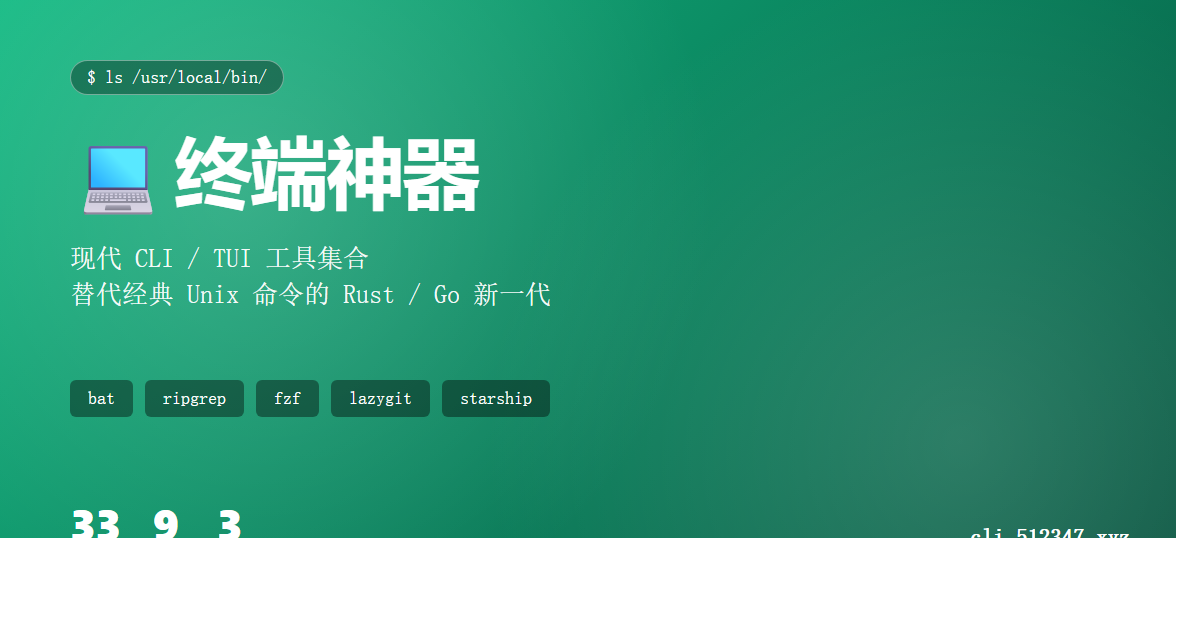
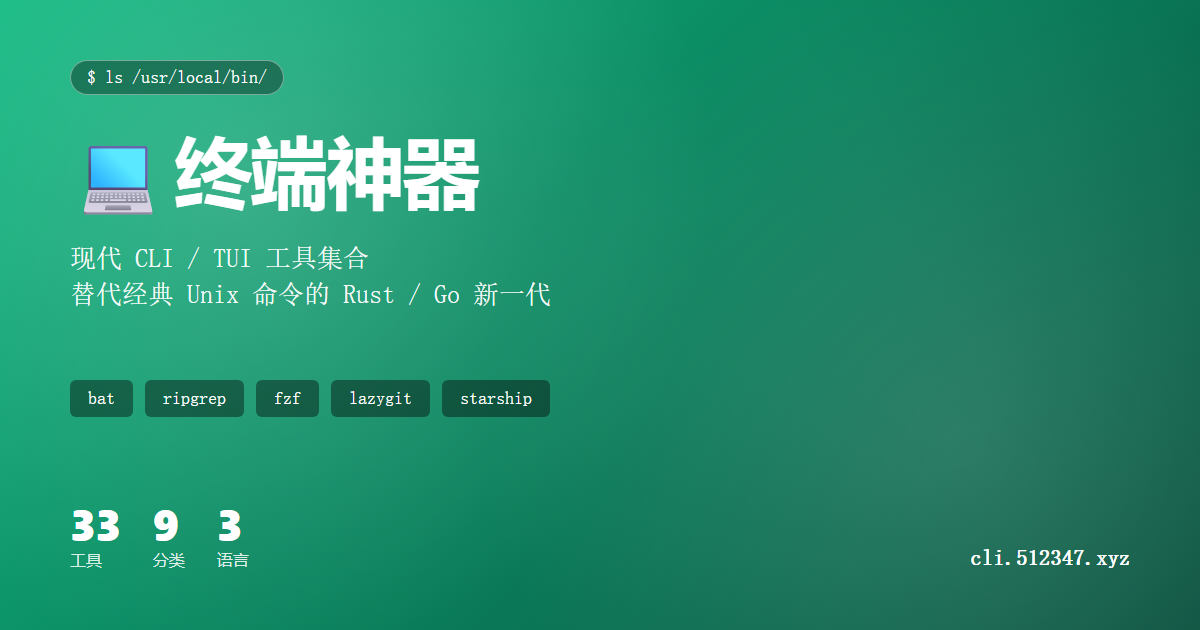
移除站点上的 GitHub 链接与用户名痕迹（隐私清理）
- 删 header GitHub 链接 + meta author
- footer / modal 去除指向仓库的链接
- 重新生成 og-image.png（去掉图上 github.com/HowCanLove 字样）

Changed region(s): [[0.0, 0.0, 1.0, 1.0]]

diff --git a/app.js b/app.js
@@ -500,7 +500,7 @@ function loadCategory() {    try {      const saved = localStorage.getItem(CATEG
 
     const footer = document.getElementById('footerText');
     if (footer) {
-      const linkHTML = `<a href="https://github.com/HowCanLove/useful-software/edit/main/data.js" target="_blank" rel="noopener">${t('footer.linkText')}</a>`;
+      const linkHTML = t('footer.linkText');
       footer.innerHTML = t('footer.text', { link: linkHTML, n: CATALOG.length });
     }
 
@@ -569,12 +569,11 @@ function loadCategory() {    try {      const saved = localStorage.getItem(CATEG
     } else {
       $modalMedia.innerHTML = '';
       $modalMedia.hidden = true;
-      const editUrl = 'https://github.com/HowCanLove/useful-software/edit/main/data.js';
       const noMediaText = state.lang === 'zh'
-        ? `🖼️ 暂无截图或视频。可以 <a href="${editUrl}" target="_blank" rel="noopener">编辑 data.js</a> 给这条加 <code>media</code> 字段。`
+        ? `🖼️ 暂无截图或视频。可以 编辑 data.js 给这条加 <code>media</code> 字段。`
         : state.lang === 'ja'
-          ? `🖼️ スクリーンショット・動画は未登録。<a href="${editUrl}" target="_blank" rel="noopener">data.js</a> を編集して <code>media</code> フィールドを追加できます。`
-          : `🖼️ No screenshots or videos yet. <a href="${editUrl}" target="_blank" rel="noopener">Edit data.js</a> to add a <code>media</code> field for this entry.`;
+          ? `🖼️ スクリーンショット・動画は未登録。data.js を編集して <code>media</code> フィールドを追加できます。`
+          : `🖼️ No screenshots or videos yet. Edit data.js to add a <code>media</code> field for this entry.`;
       $modalMediaEmpty.innerHTML = noMediaText;
       $modalMediaEmpty.hidden = false;
     }

diff --git a/index.html b/index.html
@@ -6,7 +6,6 @@
 
   <meta name="description" content="精选 Rust / Go 实现的现代终端工具集合：bat / ripgrep / fd / fzf / lazygit / k9s / starship / zellij 等，按 CLI / TUI / Shell 美化分类。装上之后告别经典 Unix 命令。">
   <meta name="keywords" content="CLI, TUI, terminal tools, ripgrep, bat, fzf, lazygit, k9s, starship, 终端工具, Rust CLI, modern terminal, ターミナル">
-  <meta name="author" content="HowCanLove">
   <meta name="theme-color" content="#10b981">
   <link rel="canonical" href="https://cli.512347.xyz/">
   <title>终端神器 · 现代 CLI / TUI 工具集 · 替代经典 Unix 命令</title>
@@ -52,10 +51,6 @@
     <div class="header-inner">
       <h1 class="site-title" data-i18n="site.title">💻 终端神器</h1>
       <p class="site-tagline" data-i18n="site.tagline">现代 CLI / TUI 工具集 · 替代经典 Unix 命令</p>
-      <a class="header-link" href="https://github.com/HowCanLove/useful-cli" target="_blank" rel="noopener">
-        <svg height="20" viewBox="0 0 16 16" width="20" fill="currentColor"><path d="M8 0C3.58 0 0 3.58 0 8c0 3.54 2.29 6.53 5.47 7.59.4.07.55-.17.55-.38 0-.19-.01-.82-.01-1.49-2.01.37-2.53-.49-2.69-.94-.09-.23-.48-.94-.82-1.13-.28-.15-.68-.52-.01-.53.63-.01 1.08.58 1.23.82.72 1.21 1.87.87 2.33.66.07-.52.28-.87.51-1.07-1.78-.2-3.64-.89-3.64-3.95 0-.87.31-1.59.82-2.15-.08-.2-.36-1.02.08-2.12 0 0 .67-.21 2.2.82.64-.18 1.32-.27 2-.27.68 0 1.36.09 2 .27 1.53-1.04 2.2-.82 2.2-.82.44 1.1.16 1.92.08 2.12.51.56.82 1.27.82 2.15 0 3.07-1.87 3.75-3.65 3.95.29.25.54.73.54 1.48 0 1.07-.01 1.93-.01 2.2 0 .21.15.46.55.38A8.013 8.013 0 0016 8c0-4.42-3.58-8-8-8z"/></svg>
-        <span data-i18n="header.github">GitHub</span>
-      </a>
     </div>
   </header>
 

diff --git a/scripts/og-template.html b/scripts/og-template.html
@@ -49,7 +49,6 @@
   </div>
   <div class="url">
     cli.512347.xyz
-    <small>github.com/HowCanLove/useful-cli</small>
   </div>
 </body>
 </html>